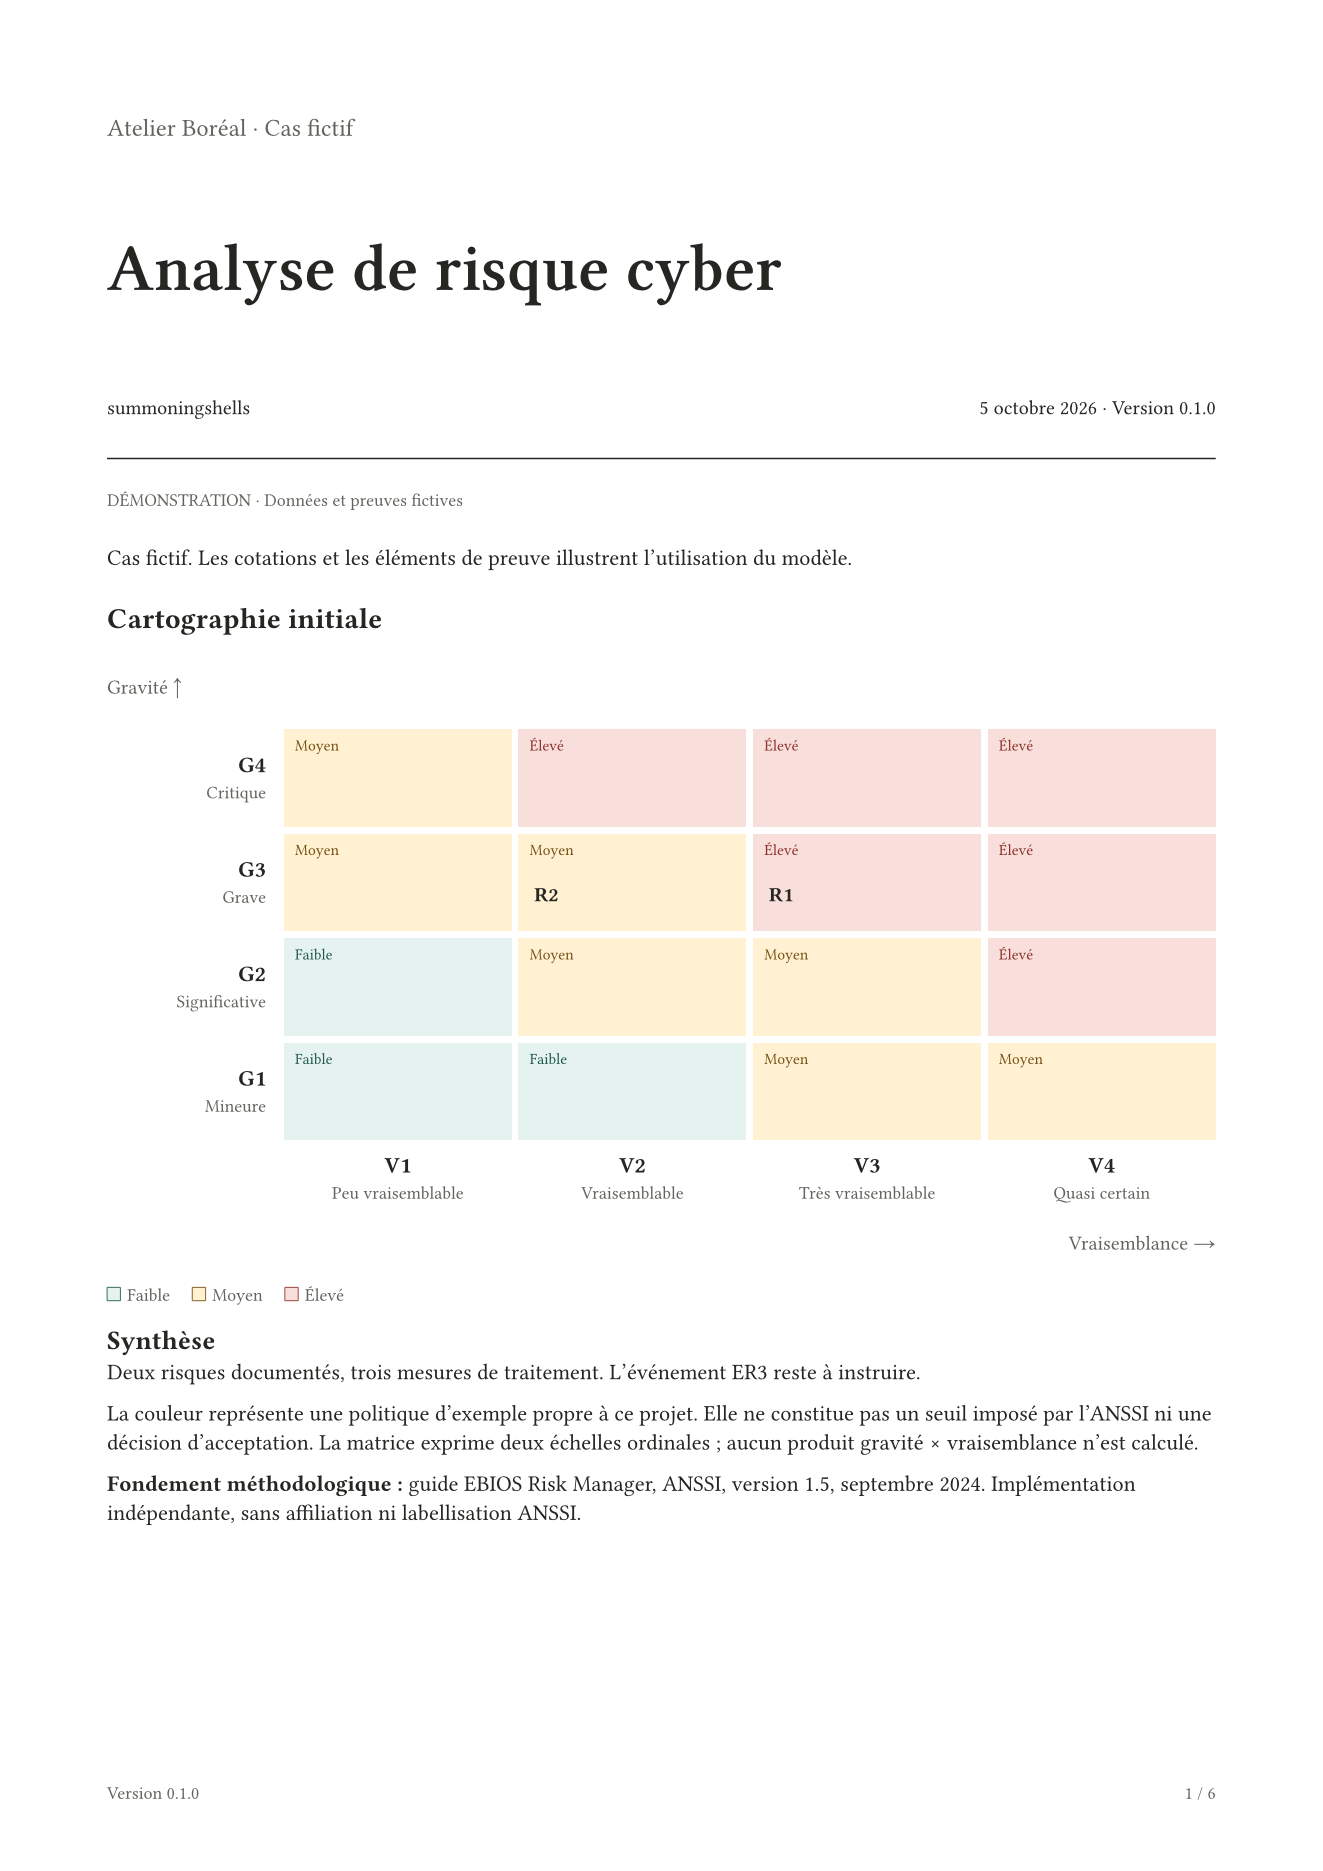
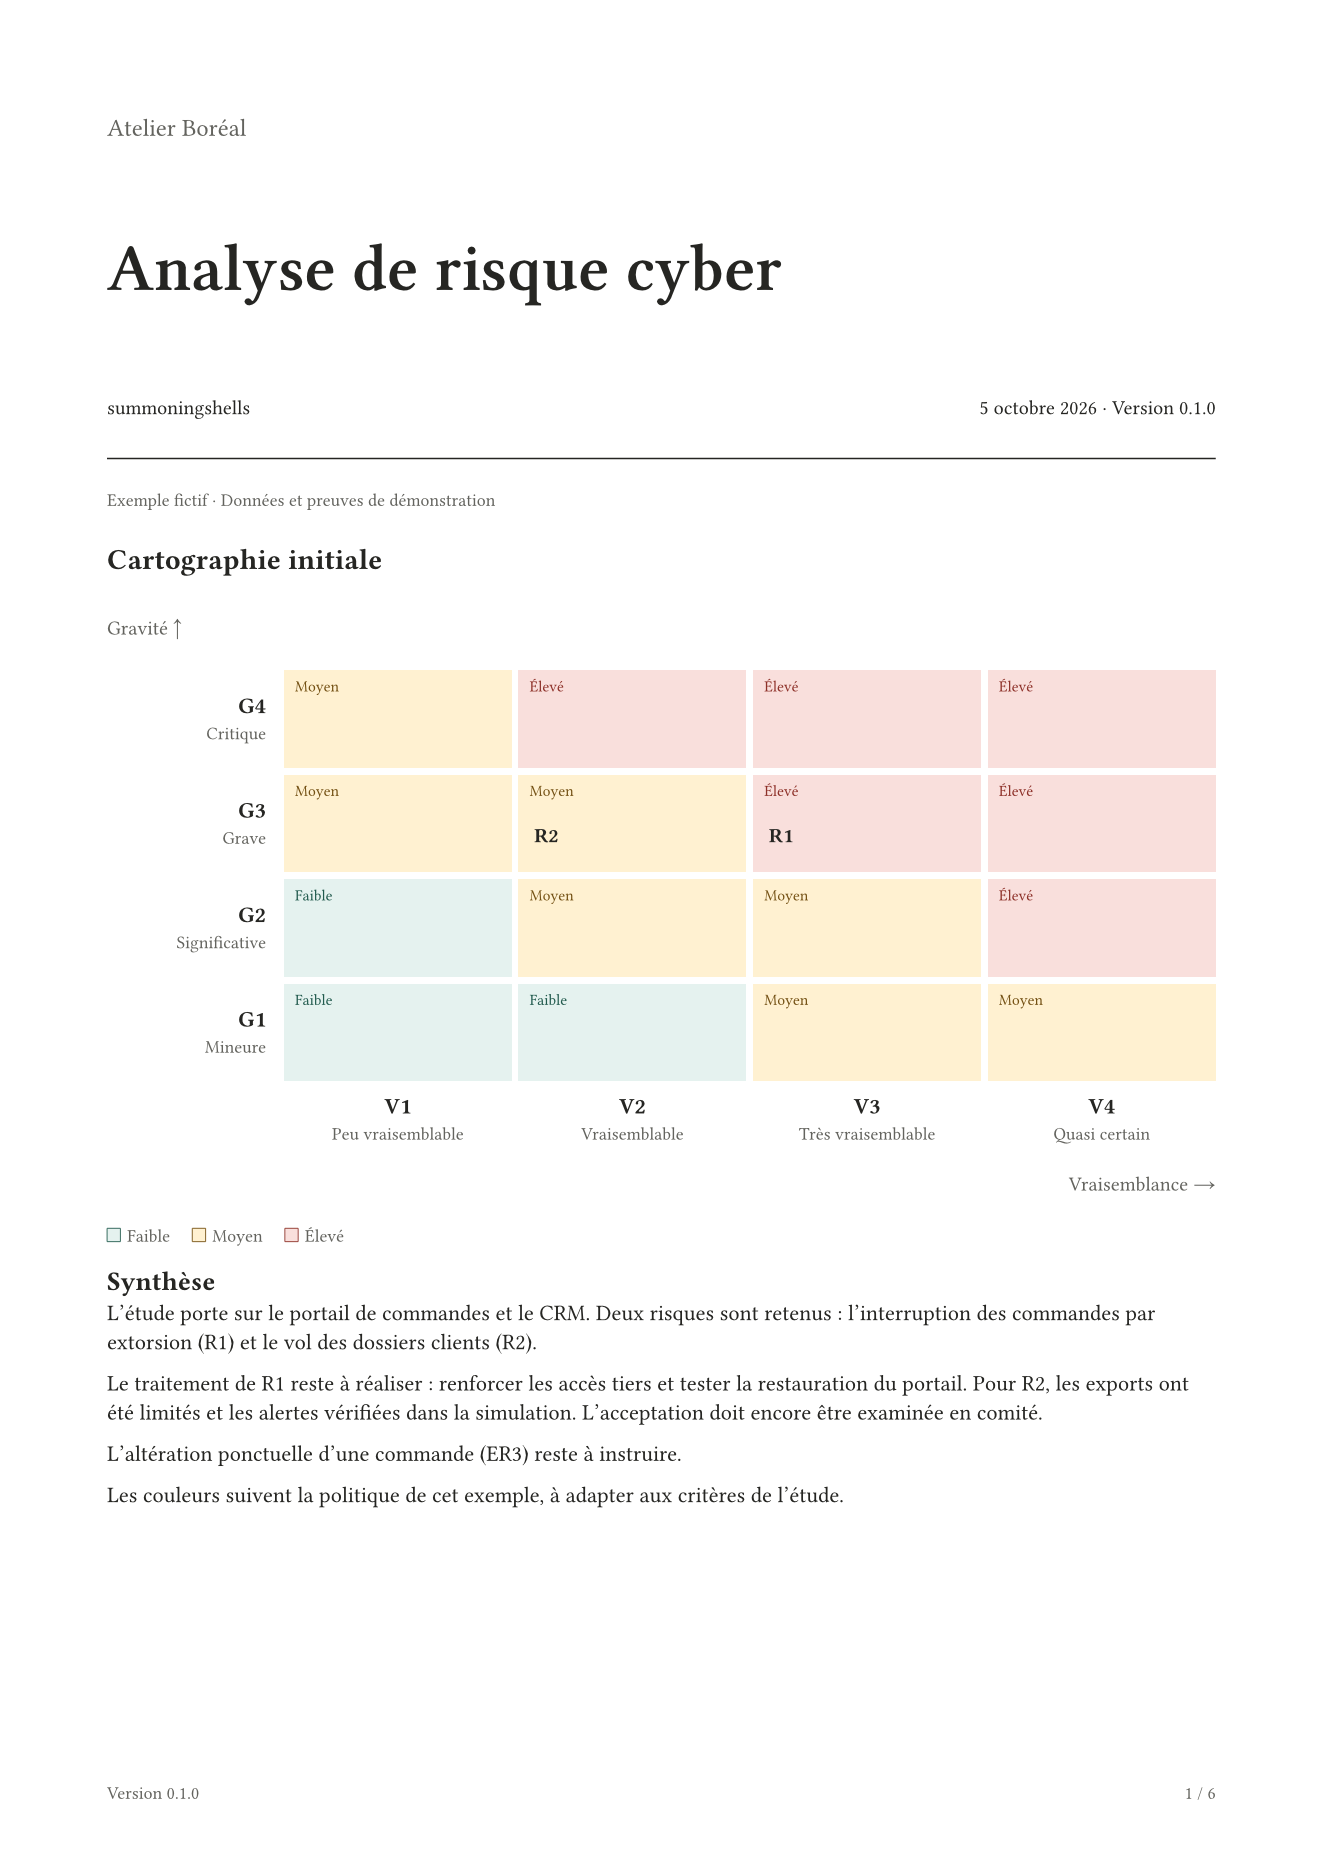
Tighten copy and support Typst 0.15.0

diff --git a/packages/preview/risk-matrix/0.1.0/README.md b/packages/preview/risk-matrix/0.1.0/README.md
@@ -1,41 +1,16 @@
 # risk-matrix
 
-Compose risk assessments with reusable EBIOS Risk Manager components: risk
-matrices, workshop tables, scenario traceability and treatment plans. Written in
-pure Typst, with no third-party packages, network calls or external assets.
+Des matrices et des tableaux pour rédiger une analyse de risque EBIOS Risk Manager.
+Le modèle fourni réunit les cinq ateliers dans un rapport en français.
 
-**Version 0.1.0 · Author: summoningshells · Typst 0.15.1+ · MIT**
+Typst 0.15.0+ · Licence MIT · [Code source](https://github.com/summoningshells/risk-matrix)
 
-Independent implementation based on ANSSI's official guidance. This package is
-not an official ANSSI product and has not received an ANSSI label.
+![Aperçu du rapport](thumbnail.png)
 
-[Source code](https://github.com/summoningshells/risk-matrix)
+## Une matrice
 
-![Preview of the included French report](thumbnail.png)
-
-## Démarrage local
-
-Depuis le dépôt source, avec le compilateur [Typst](https://github.com/typst/typst)
-installé :
-
-```sh
-git clone https://github.com/summoningshells/risk-matrix.git
-cd risk-matrix
-typst compile --root . examples/minimal.typ
-python3 scripts/build.py
-python3 scripts/check.py
-```
-
-Le premier fichier utilise l'import relatif `../lib.typ`. Le script de build
-installe une copie **temporaire et locale** du package, initialise le modèle avec
-`typst init`, puis produit `output/pdf/ebios-demo.pdf` et `thumbnail.png`.
-Les scripts acceptent `--typst /chemin/vers/typst` et nécessitent Python 3.11+.
-Ils ne téléchargent rien.
-
-## Import Universe
-
-Cet import fonctionnera après acceptation et publication, ou avec une copie
-locale installée sous l'espace `preview`. Il est déjà testé localement par les scripts.
+L'import suivant nécessite la publication sur Universe ou une installation locale
+du package dans l'espace `preview`.
 
 ```typst
 #import "@preview/risk-matrix:0.1.0": risk, risk-matrix, example-policy
@@ -48,83 +23,56 @@ locale installée sous l'espace `preview`. Il est déjà testé localement par l
 #risk-matrix(risks, policy: example-policy)
 ```
 
-`example-policy` est une politique illustrative du package, à remplacer par celle
-de votre organisation. Sans `policy`, la matrice reste neutre et positionne les
-risques sans attribuer de classe. L'axe vertical est la **gravité**, croissante
-vers le haut ; l'axe horizontal est la **vraisemblance**, croissante vers la droite.
-Les identifiants de plusieurs risques dans une même case restent visibles.
+La gravité augmente vers le haut, la vraisemblance vers la droite. Les échelles
+et les couleurs sont configurables. Remplacez `example-policy` par les seuils
+retenus pour votre étude ; sans `policy`, la matrice affiche les risques sans
+leur attribuer de classe.
 
-## Cible et risque résiduel
+## Le rapport
 
-Une mesure planifiée ne réduit pas automatiquement le risque. Le statut
-`target` représente une cible ; `assessed` représente une réévaluation documentée
-et exige une date et une référence de preuve. L'acceptation reste une décision humaine.
+`template/main.typ` contient le rapport et `template/data.typ` les données du
+cas fictif « Atelier Boréal ». Pour démarrer une étude, adaptez ces données,
+les critères de cotation et la politique de classement.
 
-```typst
-#import "@preview/risk-matrix:0.1.0": risk, risk-matrix, risk-register, example-policy
-
-#let risks = (
-  risk("R1", "Arrêt des commandes", 3, 3,
-    owner: "Direction des opérations",
-    decision: "Réduire ; réévaluer après test de reprise.",
-    residual: (
-      gravity: 3, likelihood: 1,
-      status: "target",
-      rationale: "Niveau visé après mise en œuvre et vérification des mesures.",
-    ),
-  ),
-)
-
-#risk-matrix(risks, stage: "residual", policy: example-policy)
-#risk-register(risks, policy: example-policy)
-```
-
-Les risques sans cotation cible/résiduelle sont listés sous la matrice, sans
-réutilisation silencieuse de leur cotation initiale. Les repères **C** et **E**
-différencient les cibles des résiduels évalués.
-
-## Composants disponibles
+`risk-report` applique la mise en page avec une règle `show`. Les composants
+peuvent aussi être utilisés séparément dans un document existant.
 
 | Usage | Fonctions |
 | --- | --- |
 | Matrices et registre | `risk-matrix`, `risk-comparison`, `risk-register` |
 | Cadrage | `scope-card`, `assets-table`, `events-table`, `baseline-table` |
-| Sources et objectifs | `sources-table` |
+| Sources de risque | `sources-table` |
 | Écosystème et scénarios stratégiques | `stakeholders-table`, `strategic-table` |
 | Scénarios opérationnels | `operational-table`, `attack-path` |
-| Traitement et couverture | `treatment-table`, `coverage-table` |
+| Traitement | `treatment-table`, `coverage-table` |
 | Mise en page | `risk-report`, `workshop`, `data-table` |
-| Données et contrôles | `risk`, `risk-level`, `validate-risks`, `validate-study`, `coverage` |
+| Données | `risk`, `risk-level`, `validate-risks`, `validate-study`, `coverage` |
 
-L'import n'applique aucun style global. `risk-report` est une règle `show`
-facultative. Les tableaux ont des en-têtes répétés sur les pages suivantes.
-Le modèle fourni est en français ; le code expose une API en anglais.
-Le rapport utilise Libertinus Serif, des titres numérotés et des tableaux à
-traits fins. La couleur est réservée aux niveaux de risque. Le paramètre `font`
-permet de choisir une autre police.
+Les repères C et E distinguent les cibles (`target`) des risques résiduels évalués
+(`assessed`). Une réévaluation exige une justification, une date et une référence
+de preuve. Voir les [formats et exemples de l'API](docs/api.md).
 
-## Modèle complet
+## Essayer depuis les sources
 
-`template/main.typ` assemble les cinq ateliers à partir de `template/data.typ`.
-Toutes les données et les preuves du cas « Atelier Boréal » sont **fictives**.
-Le modèle contient volontairement un événement sans scénario pour montrer le
-suivi de couverture. Il faut remplacer les données, les critères de cotation,
-les seuils, les cycles de revue et les décisions avant un usage réel.
+Avec [Typst](https://github.com/typst/typst) et Python 3.11+ installés :
 
-Le validateur contrôle les identifiants, les références entre ateliers, la
-cohérence des cotations et les champs de justification des résiduels. Il ne
-certifie ni la conformité méthodologique ni l'exhaustivité d'une étude.
-Cette version représente des chemins séquentiels ; elle ne calcule pas de
-graphes d'attaque ET/OU, de vraisemblances standard/avancées ni de dangerosités.
+```sh
+git clone https://github.com/summoningshells/risk-matrix.git
+cd risk-matrix
+python3 scripts/build.py
+python3 scripts/check.py
+```
 
-## Documentation et références
+`build.py` initialise le modèle avec `typst init` dans un dossier temporaire,
+puis produit `output/pdf/ebios-demo.pdf` et la vignette. Les scripts acceptent
+`--typst /chemin/vers/typst`.
 
-- [API et formats des données](docs/api.md)
-- [Choix méthodologiques et sources ANSSI](docs/methodology.md)
-- [Préparation de la soumission Universe](docs/publishing.md)
-- [Guide officiel EBIOS Risk Manager et fiches méthodes](https://messervices.cyber.gouv.fr/guides/la-methode-ebios-risk-manager-le-guide)
+## Références
 
-Le guide consulté est la version **1.5, septembre 2024**, ANSSI-PA-048, sous
-Licence Ouverte Etalab V1. La page de ressources et les fiches ont été consultées
-le 5 octobre 2026. Le code, le style et les exemples originaux sont sous MIT ;
-voir [LICENSE](LICENSE) et [NOTICE](NOTICE). EBIOS est une marque du SGDSN.
+Le package s'appuie sur le [guide EBIOS Risk Manager de l'ANSSI](https://messervices.cyber.gouv.fr/guides/la-methode-ebios-risk-manager-le-guide),
+version 1.5, septembre 2024. C'est un projet indépendant, sans affiliation
+ni labellisation ANSSI.
+
+- [Conventions de cotation, limites et sources](docs/methodology.md)
+- [Publication sur Universe](docs/publishing.md)
+- [Licence MIT](LICENSE) et [attribution des sources](NOTICE)

diff --git a/packages/preview/risk-matrix/0.1.0/docs/publishing.md b/packages/preview/risk-matrix/0.1.0/docs/publishing.md
@@ -1,64 +1,39 @@
-# Soumission à Typst Universe
+# Publication sur Typst Universe
 
-Le code source est hébergé dans
-[summoningshells/risk-matrix](https://github.com/summoningshells/risk-matrix).
-Le nom du package Typst est `risk-matrix` ; son auteur est `summoningshells`.
-Les scripts préparent et vérifient les fichiers, sans effectuer de publication.
+[Code source](https://github.com/summoningshells/risk-matrix) ·
+[Première soumission : PR #6029](https://github.com/typst/packages/pull/6029)
 
-## Vérification et dossier à soumettre
+## Préparer les fichiers
 
 ```sh
-python3 scripts/build.py
-python3 scripts/check.py
 python3 scripts/package.py
 ```
 
-La dernière commande exécute les vérifications, teste à nouveau le modèle et
-produit `dist/preview/risk-matrix/0.1.0/` et une archive `.tar.gz` correspondante.
-Le contenu de ce dossier est destiné à
-`packages/preview/risk-matrix/0.1.0/` dans le dépôt `typst/packages`.
-Les rapports générés, les données de travail et les scripts ne sont pas ajoutés
-à l'archive. Seul le cas fictif fourni accompagne le modèle.
+Cette commande compile les exemples, vérifie les données invalides et teste le
+modèle avec `typst init`. Elle produit :
 
-Le manifeste comprend les métadonnées du composant et une section `[template]`.
-`template/main.typ` utilise l'import absolu `@preview/risk-matrix:0.1.0`.
-Le script de build exécute réellement `typst init` dans un répertoire isolé
-puis compile le document initialisé. La vignette provient de sa première page.
+- `dist/preview/risk-matrix/0.1.0/`, à copier dans le registre ;
+- `dist/risk-matrix-0.1.0.tar.gz`, qui contient les mêmes fichiers.
 
-## Procédure distante
+Le script accepte `--typst /chemin/vers/typst`. Les rapports générés et les scripts
+de développement restent hors de l'archive.
 
-1. Publier la version dans le dépôt source. Son URL figure dans le champ
-   `repository` de `typst.toml`.
-2. Vérifier une dernière fois la disponibilité du nom et des PR concurrentes.
-   Le nom `risk-matrix` est descriptif ; les règles du registre peuvent imposer
-   un nom plus distinctif lors de la revue.
-3. Forker `typst/packages`, y copier le dossier préparé dans l'emplacement
-   indiqué, puis ouvrir une pull request avec le titre proposé ci-dessous.
-4. Traiter les remarques des mainteneurs. L'import public devient disponible
-   après fusion et traitement par l'infrastructure du registre.
+## Soumettre une version
 
-Une présence dans Universe ne constitue pas une labellisation ANSSI.
+1. Mettre à jour la version dans le manifeste, les imports et le changelog.
+2. Exécuter `package.py`, puis vérifier le PDF et la vignette.
+3. Copier le dossier préparé dans `packages/preview/risk-matrix/0.1.0/` d'un fork
+   de `typst/packages` et ouvrir une PR intitulée `risk-matrix:0.1.0`.
+4. Répondre à la revue. L'import public devient disponible après fusion et
+   traitement par le registre.
 
-## Texte de PR proposé
+Le nom descriptif `risk-matrix` et la licence MIT du modèle sont signalés dans
+la PR pour revue. La licence MIT s'applique à tous les fichiers du projet.
 
-**Titre :** `risk-matrix:0.1.0`
+## Règles du registre
 
-> Add reusable components and a French report template for EBIOS Risk Manager
-> assessments: configurable risk matrices, workshop tables, scenario references,
-> coverage checks and treatment tracking. Targets and assessed residual risks are
-> distinguished explicitly. Based on ANSSI's published guidance; independently
-> developed and not affiliated with or labelled by ANSSI.
->
-> Pure Typst with no package dependencies. Verified on Typst 0.15.1 through
-> compilation checks, expected validation failures, an isolated `typst init`
-> build, and visual inspection of the resulting PDF and thumbnail. MIT license;
-> source attribution is included in NOTICE and the methodological documentation.
-
-## Références du registre
-
-- [Règles de soumission](https://github.com/typst/packages/blob/main/docs/README.md)
+- [Soumission](https://github.com/typst/packages/blob/main/docs/README.md)
 - [Manifeste, noms et vignettes](https://github.com/typst/packages/blob/main/docs/manifest.md)
-- [Fonctionnement des packages locaux](https://github.com/typst/packages#local-packages)
+- [Licences des packages et modèles](https://github.com/typst/packages/blob/main/docs/licensing.md)
 
-Règles consultées le 6 octobre 2026. Le champ `compiler` correspond à la version
-effectivement testée ; aucune compatibilité antérieure n'est revendiquée.
+Règles consultées le 6 octobre 2026.

diff --git a/packages/preview/risk-matrix/0.1.0/docs/methodology.md b/packages/preview/risk-matrix/0.1.0/docs/methodology.md
@@ -3,7 +3,7 @@
 ## Référence principale
 
 [ANSSI, EBIOS Risk Manager, guide v1.5, septembre 2024, ANSSI-PA-048](https://messervices.cyber.gouv.fr/documents-guides/250129_np_anssi_guide_ebios_fr_final_collection_WEB.pdf),
-depuis la [page officielle fournie](https://messervices.cyber.gouv.fr/guides/la-methode-ebios-risk-manager-le-guide).
+disponible sur la [page des ressources EBIOS RM](https://messervices.cyber.gouv.fr/guides/la-methode-ebios-risk-manager-le-guide).
 Les numéros ci-dessous désignent les pages imprimées du guide, et non les index PDF.
 
 | Partie du package | Référence | Transposition |
@@ -18,13 +18,9 @@ Les numéros ci-dessous désignent les pages imprimées du guide, et non les ind
 | Traitement et revue | pp. 69-81 | Registre, mesures, cibles, résiduels et décisions |
 | Contrôle de couverture | p. 73 | ER sans risque lié signalés comme restant à instruire |
 
-Ces composants aident à formaliser une étude ; ils ne conduisent pas les ateliers
-à la place des participants. Les données de démonstration sont originales et fictives.
-
 ## Fiches complémentaires
 
-Consultées le **5 octobre 2026**. Leur date d'édition n'est pas déduite de celle
-du guide : ces documents peuvent évoluer indépendamment.
+Consultées le 5 octobre 2026.
 
 - [Gravité des événements redoutés, atelier 1](https://messervices.cyber.gouv.fr/documents-guides/Fiche_methode-Evaluer_la_gravite_des_evenements_redoute-atelier_1.pdf) : construction d'une échelle adaptée aux impacts métier.
 - [Sources de risque, atelier 2](https://messervices.cyber.gouv.fr/documents-guides/Fiche_methode-Identifier_et_caracteriser_les_sources_de_risque-atelier_2.pdf) : contexte, profils et sélection des couples ; aucune taxonomie figée dans le code.
@@ -55,7 +51,8 @@ Pas de calcul automatique de menace, de graphe ET/OU, d'agrégation de probabili
 d'inventaire de conformité réglementaire ni de moteur d'acceptation.
 Les biens supports sont des descriptions libres. La couverture signale les ER
 non reliés à des risques, mais ne prouve pas l'exhaustivité de l'analyse.
-Le package est une bibliothèque de composition et de validation structurelle.
+Le validateur contrôle la structure des données ; les hypothèses, les preuves
+et l'exhaustivité de l'étude restent à examiner en atelier.
 
 Le guide est crédité sous sa Licence Ouverte Etalab V1. Les libellés usuels sont
 repris pour assurer la cohérence du vocabulaire ; les explications et exemples

diff --git a/packages/preview/risk-matrix/0.1.0/docs/api.md b/packages/preview/risk-matrix/0.1.0/docs/api.md
@@ -66,6 +66,27 @@ non vides obligatoires ; utiliser une date ISO `AAAA-MM-JJ` et une référence d
 preuve. Le format de date et la réalité de la preuve ne sont pas vérifiés.
 Une hausse de la cotation résiduelle reste autorisée si la réévaluation le justifie.
 
+Exemple de cible après traitement :
+
+```typst
+#import "@preview/risk-matrix:0.1.0": risk, risk-matrix, risk-register, example-policy
+
+#let risks = (
+  risk("R1", "Arrêt des commandes", 3, 3,
+    owner: "Direction des opérations",
+    decision: "Réduire ; réévaluer après test de reprise.",
+    residual: (
+      gravity: 3, likelihood: 1,
+      status: "target",
+      rationale: "Niveau visé après mise en œuvre et vérification des mesures.",
+    ),
+  ),
+)
+
+#risk-matrix(risks, stage: "residual", policy: example-policy)
+#risk-register(risks, policy: example-policy)
+```
+
 `validate-risks(risks, severity: severity-scale, likelihood: likelihood-scale)`
 vérifie cette structure. Un tableau vide est accepté.
 
